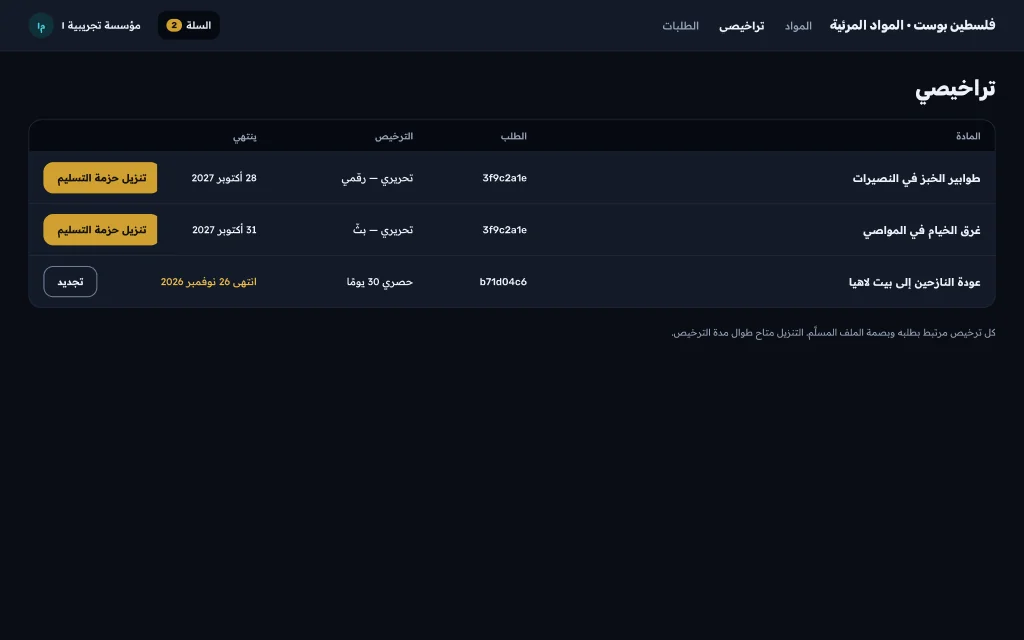
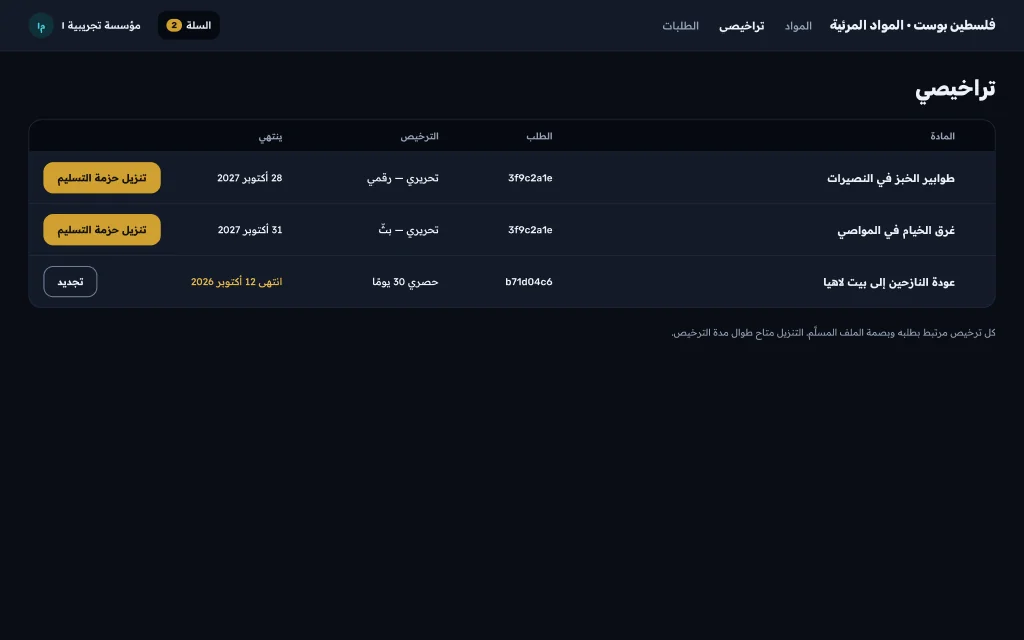
design: third review round on PR #461
- S4: the action column is wider, so "تنزيل حزمة التسليم" is no longer
  clipped; the expired licence ended on 12 October 2026, before S7's
  payment date. Re-exported.
- web-v2.md: "تجديد" is marked as a proposal (no renewal operation in
  the contract; it opens S2 for a new licence). store.invite.lead says
  "once" and names the store, as in S5.
- buyer.md D3: drop the buyer-currency approximation (not in the
  contract).

Claude-Session: https://claude.ai/code/session_01HY7py4Kwox1KypVxZuFGKP

diff --git a/docs/design/specs/web-v2.md b/docs/design/specs/web-v2.md
@@ -36,7 +36,7 @@
 | S1 | المتجر: الكتالوج | بحث بالحدث والمكان والتاريخ؛ شرائح المحافظة؛ لا اسم مراسل ولا مصدر |
 | S2 | المتجر: صفحة المادة | معاينة بعلامة مائية وجودة أقل؛ «صُوّر» بالتاريخ؛ المحافظة وحدها؛ ثلاثة تراخيص بسعر كلٍّ منها؛ زرّ أساسي واحد |
 | S3 | السلة والدفع | الملخّص هو الإجمالي (`total`) وحده، بلا مجموع فرعي ولا ضريبة (فجوة عقد كما في S7)؛ رقم أمر شراء اختياري موسوم «مقترح» في الحقل (ليس في `Order` بعد)؛ سطر ثابت: «بيئة دفع تجريبية: لا يُخصم مال حقيقي» |
-| S4 | تراخيصي | الترخيص مرتبط بطلبه، والطلب يُعرَّف بأول ثمانية محارف من معرّفه كما في S7، وببصمة الملف؛ الفعل «تنزيل حزمة التسليم» (اسم العقد)؛ المنتهي كلمة بتاريخه كاملًا بلون التحذير وزرّ «تجديد». لا عدّاد استعمال في الجدول: `License` لا يحمله، و`downloads_remaining` في ردّ رابط التنزيل وحده وبلا إجمالي |
+| S4 | تراخيصي | الترخيص مرتبط بطلبه، والطلب يُعرَّف بأول ثمانية محارف من معرّفه كما في S7، وببصمة الملف؛ الفعل «تنزيل حزمة التسليم» (اسم العقد)؛ المنتهي كلمة بتاريخه كاملًا بلون التحذير وزرّ «تجديد». «تجديد» **مقترح**: لا عملية تجديد في العقد، فيفتح صفحة المادة (S2) لشراء ترخيص جديد. لا عدّاد استعمال في الجدول: `License` لا يحمله، و`downloads_remaining` في ردّ رابط التنزيل وحده وبلا إجمالي |
 | A1 | المستخدمون والأدوار | شارات الدور والحالة؛ مصفوفة «ما يستطيعه كل دور» بعلامة وكلمة |
 | A2 | الوسوم | المقترحة بترتيب ظهورها للمراسل؛ 1–40 حرفًا و12 وسمًا للمادة (ADR 0086)؛ الدمج يحفظ الأصل في السجلّ |
 | A3 | منشئ النماذج | إصدار للنموذج؛ التغيير يسري على الإرسالات الجديدة فقط؛ حقول العقد لا تُحذف؛ «المكان» موسوم «مشفّر» |
@@ -144,7 +144,7 @@
 |---|---|---|
 | `store.invite.badge` | دعوة إلى المتجر | Store invitation |
 | `store.invite.title` | انضمّ إلى {org} | Join {org} |
-| `store.invite.lead` | دعاك مدير المؤسسة إلى المتجر بدور «{role}». الرابط صالح حتى {time}. | Your organization's admin invited you to the store as {role}. The link works until {time}. |
+| `store.invite.lead` | دعاك مدير المؤسسة إلى متجر {store} بدور «{role}». الرابط لمرة واحدة، وصالح حتى {time}. | Your organization's admin invited you to the {store} store as {role}. The link works once, until {time}. |
 | `store.invite.stepPassword` | ١ كلمة المرور | 1 Password |
 | `store.invite.stepTotp` | ٢ المصادقة الثنائية | 2 Two-step verification |
 | `store.invite.fieldEmail` | البريد | Email |

diff --git a/docs/design/specs/buyer.md b/docs/design/specs/buyer.md
@@ -24,7 +24,7 @@
 
 ## 4. D3 · السلة (`/store/cart`)
 - شبكة `minmax(0,1fr) 380px`؛ بنود كبطاقات: مصغّرة 120×68 `bg/media`، العنوان `heading/h4`، الترخيص `body/sm`، أزرار `Ghost` «تغيير الترخيص» (يفتح منتقي الترخيص في ورقة) و«إزالة»، السعر `heading/h3` LTR، وكبسولة `tone/attention` «حجز الحصرية ينتهي خلال mm:ss» (عدّاد حي؛ عند الصفر تصبح `tone/bad` «انتهى الحجز — أعد المحاولة» ويتعطّل الدفع حتى إعادة التحقق).
-- الملخص (`Elevation/1`، ثابت `position: sticky; top: 96px`): الإجمالي بالدولار `heading/h3` (`Order.total` وحده؛ المجموع الفرعي والضريبة فجوة عقد، انظر S3 وS7 في `web-v2.md`)، تقريب بعملة المشتري `body/md` (سعر اليوم، نص توضيحي)، `Primary` «إتمام الشراء»، `caption/md` «لا تُفتح الملفات إلا بعد تأكيد الدفع من البوابة الموقّع». دون 1000 يصبح الملخص شريطًا سفليًا ثابتًا بالإجمالي والزر.
+- الملخص (`Elevation/1`، ثابت `position: sticky; top: 96px`): الإجمالي بالدولار `heading/h3` (`Order.total` وحده؛ المجموع الفرعي والضريبة فجوة عقد، انظر S3 وS7 في `web-v2.md`)، `Primary` «إتمام الشراء»، `caption/md` «لا تُفتح الملفات إلا بعد تأكيد الدفع من البوابة الموقّع». دون 1000 يصبح الملخص شريطًا سفليًا ثابتًا بالإجمالي والزر.
 - فارغة: «سلتك فارغة» + رابط الكتالوج. بند لم يعد متاحًا (سُحب): البطاقة بتعتيم وكبسولة `tone/bad` «لم تعد متاحة» وزر إزالة فقط.
 
 ## 5. D4 · الدفع (`/store/checkout`)
